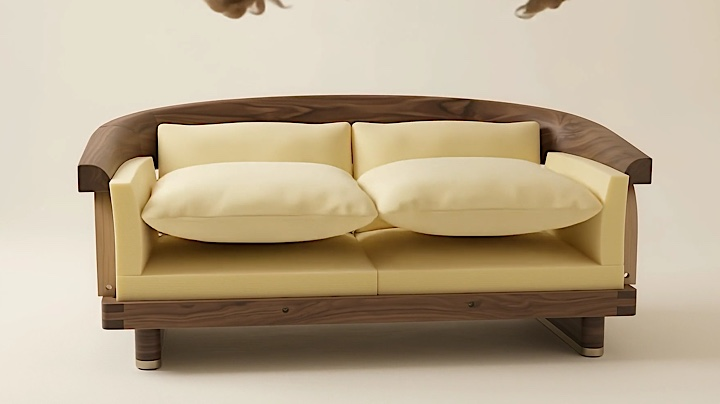
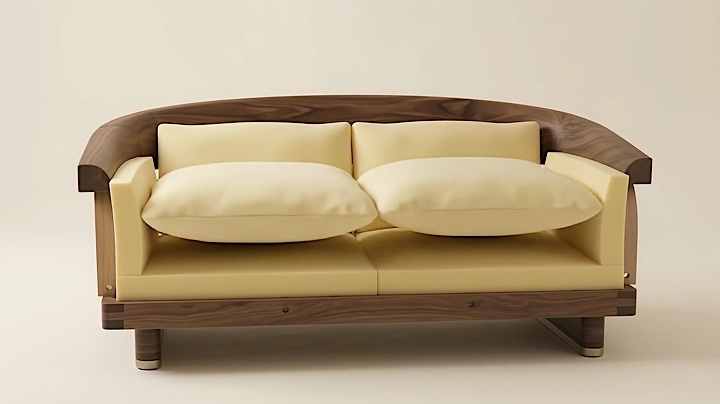
Arrêt mousse : oreillers posés

Changed region(s): [[0.275, 0.0, 0.3972, 0.0594], [0.7028, 0.0, 0.7944, 0.0594]]

diff --git a/index.html b/index.html
@@ -338,8 +338,8 @@ footer{padding:28px 16px 60px;text-align:center;font-size:13.5px;color:var(--ink
   // Arrêts choisis image par image (sur 240) : chaque étape s'arrête sur une image nette, rien en vol.
   // Vidéo video/etapes-plan1.mp4 (Veo, 15 s, 180 images) : arrêts sur ses pauses, trouvées par outils/trouver_pauses.py
   // 9 toutes les pièces au sol · 58 socle monté, le reste encore au sol · 113 arceaux, dossier et sangles
-  // 140 toute la mousse jaune · 173 crin puis tissu : canapé fini
-  var STOPS = [9, 58, 113, 140, 173].map(function (f) { return f / 179; });
+  // 142 toute la mousse jaune, oreillers posés (141-142 corrigées : crin effacé en haut, originaux dans video/originaux-corriges) · 173 crin puis tissu : canapé fini
+  var STOPS = [9, 58, 113, 142, 173].map(function (f) { return f / 179; });
   var LAST = STEPS.length - 1, snapOn = !reduce, step = 0, vNow = 0, vAnim = null, sAnim = null, ours = false, busyUntil = 0;
   var ess = document.getElementById('essentiel');
   function stepTop(k) { return k === 0 ? 0 : document.getElementById(STEPS[k]).offsetTop; }
